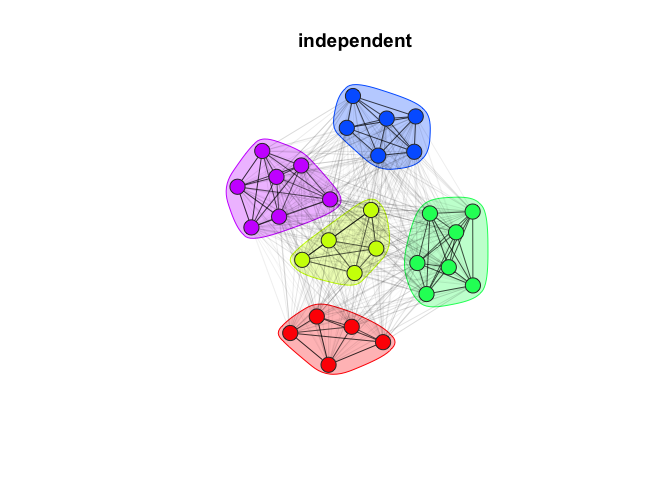
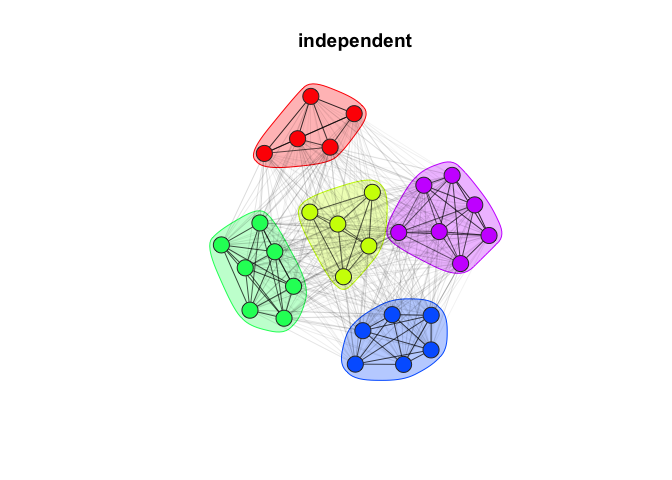
updated

Changed region(s): [[0.3125, 0.1562, 0.75, 0.8125]]

diff --git a/README.md b/README.md
@@ -5,28 +5,24 @@
 
 # modulr
 
-**NOTE:** This package is under active development. A stable version
-will be available soon.
-
-`modulr` is an R package that simulates network graphs with controllable
-modularity and stochastic continuous-time descriptions of individuals’
-locations over the course of a simulation. The package includes tools
-for simulating sampling processes, power analysis, visualization, and
-individually-based disease models.
-
-Some of the functions in this package can use the ‘netcarto’
+`modulr` is primarily motivated by the investigation of transmission in
+wildlife but could be extendable to other systems. The workflow starts
+with simulating individual movement behaviors that give rise to emergent
+network properties. Within a simulated population, individual-based
+transmission and contact patterns can be investigated and network
+sampling simulators facilitate power analysis for social network
+statistic estimation. To our knowledge, it is also the first R package
+to let users simulate networks with controllable modularity. The package
+makes heavy use of ‘igraph’, especially for network visualization. Some
+of the functions in this package can use the ‘netcarto’
 simulated-annealing community detection algorithm implemented via
 `rnetcarto`, although this is a suggested package, not a dependency.
-`rnetcarto` setup can be laborious depending on your machine. In our
-experience, this community detection algorithm has the greatest
-performance advantages for small networks, which may make the additional
-setup effort worthwhile.
 
 ## How to cite this package
 
-Cotterill, G. and Manlove, K. modulr: R package for simulating
-fission-fusion networks and sample design. (Version v1.0.0).
-<https://github.com/gavincotterill/modulr>
+Cotterill, G. and Manlove, K. modulr: R package to simulate individual
+movement behaviors underlying modular fission-fusion networks. (Version
+v0.8.0). <https://github.com/gavincotterill/modulr>
 
 ## Installation
 
@@ -111,11 +107,7 @@ group membership for each animal, and calculate the network modularity
 (Newman’s Q).
 
 ``` r
-adj_ind <- as.matrix(igraph::get.adjacency(g, type = "upper",
-    attr = "weight"))
-mem_ind <- V(g)$membership
-Q <- assortnet::assortment.discrete(adj_ind, types = mem_ind,
-    weighted = T)$r
+Q <- q_rel(g)
 Q
 #> [1] 0.5442307
 ```
@@ -150,40 +142,35 @@ g_obs <- sample_graph(graph = g, sample_nNodes = sn, sampling_duration = sd,
 Let’s calculate estimated modularity of the sampled graph.
 
 ``` r
-adj_sample <- as.matrix(igraph::get.adjacency(g_obs, type = "upper",
-    attr = "weight"))
-mem_sample <- V(g_obs)$membership
-Qest <- assortnet::assortment.discrete(adj_sample, types = mem_sample,
-    weighted = T)$r
+Qest <- q_rel(g_obs)
 Qest
 #> [1] 0.5091914
 ```
 
 Now we can plot our sampled graph side-by-side with the original and
-compare.
+compare. Using the optional `seed` call, and providing the same value to
+both plotting functions let’s us ‘lock’ the node layout in place to
+faciliate side-by-side comparison of the ‘true’ and ‘observed’ graphs.
 
 ``` r
 par(mfrow = c(1, 2))
+seed_val <- 123
 plot_simulated_graph(g, title = paste0("True Q = ", round(Q,
-    2)))
+    2)), seed = seed_val)
 plot_sampled_graph(g_obs = g_obs, g = g, title = paste0("Estimated Q = ",
-    round(Qest, 2)))
+    round(Qest, 2)), seed = seed_val)
 ```
 
 ![](man/figures/README-plot-sampled-1.png)
 
-`plot_sampled_graph()` preserves the node location from the left hand
-plot to make it easier to see which animals were sampled. Netcarto’s
-community assignments are represented as the node color in the right
-hand figure and the encircling polygons indicate the “true membership”
-in both left and right. By chance, all 5 social groups were sampled, and
-netcarto correctly assigned all individuals except the white node up
-top, which should have been in it’s own group. Netcarto did a good job
-in this example. Netcarto is also fast for the sizes of networks we are
-likely to encounter for many wildlife species. Different community
-detection algorithms vary in their strengths and abilities – some will
-perform better if the observation frequency is reduced. As we can see
-the estimated modularity ended up being a little low, but not too far
-off.
+Netcarto’s community assignments are represented as the node color in
+the right hand figure and the encircling polygons indicate the “true
+membership” in both left and right. By chance, all 5 social groups were
+sampled, and netcarto correctly assigned all individuals except the
+white node up top, which should have been in it’s own group. Different
+community detection algorithms vary in their strengths and abilities –
+some will perform better if the observation frequency is reduced. As we
+can see the estimated modularity ended up being a little low, but not
+too far off.
 
 Be sure to check out the other vignettes to learn more about `modulr`!
